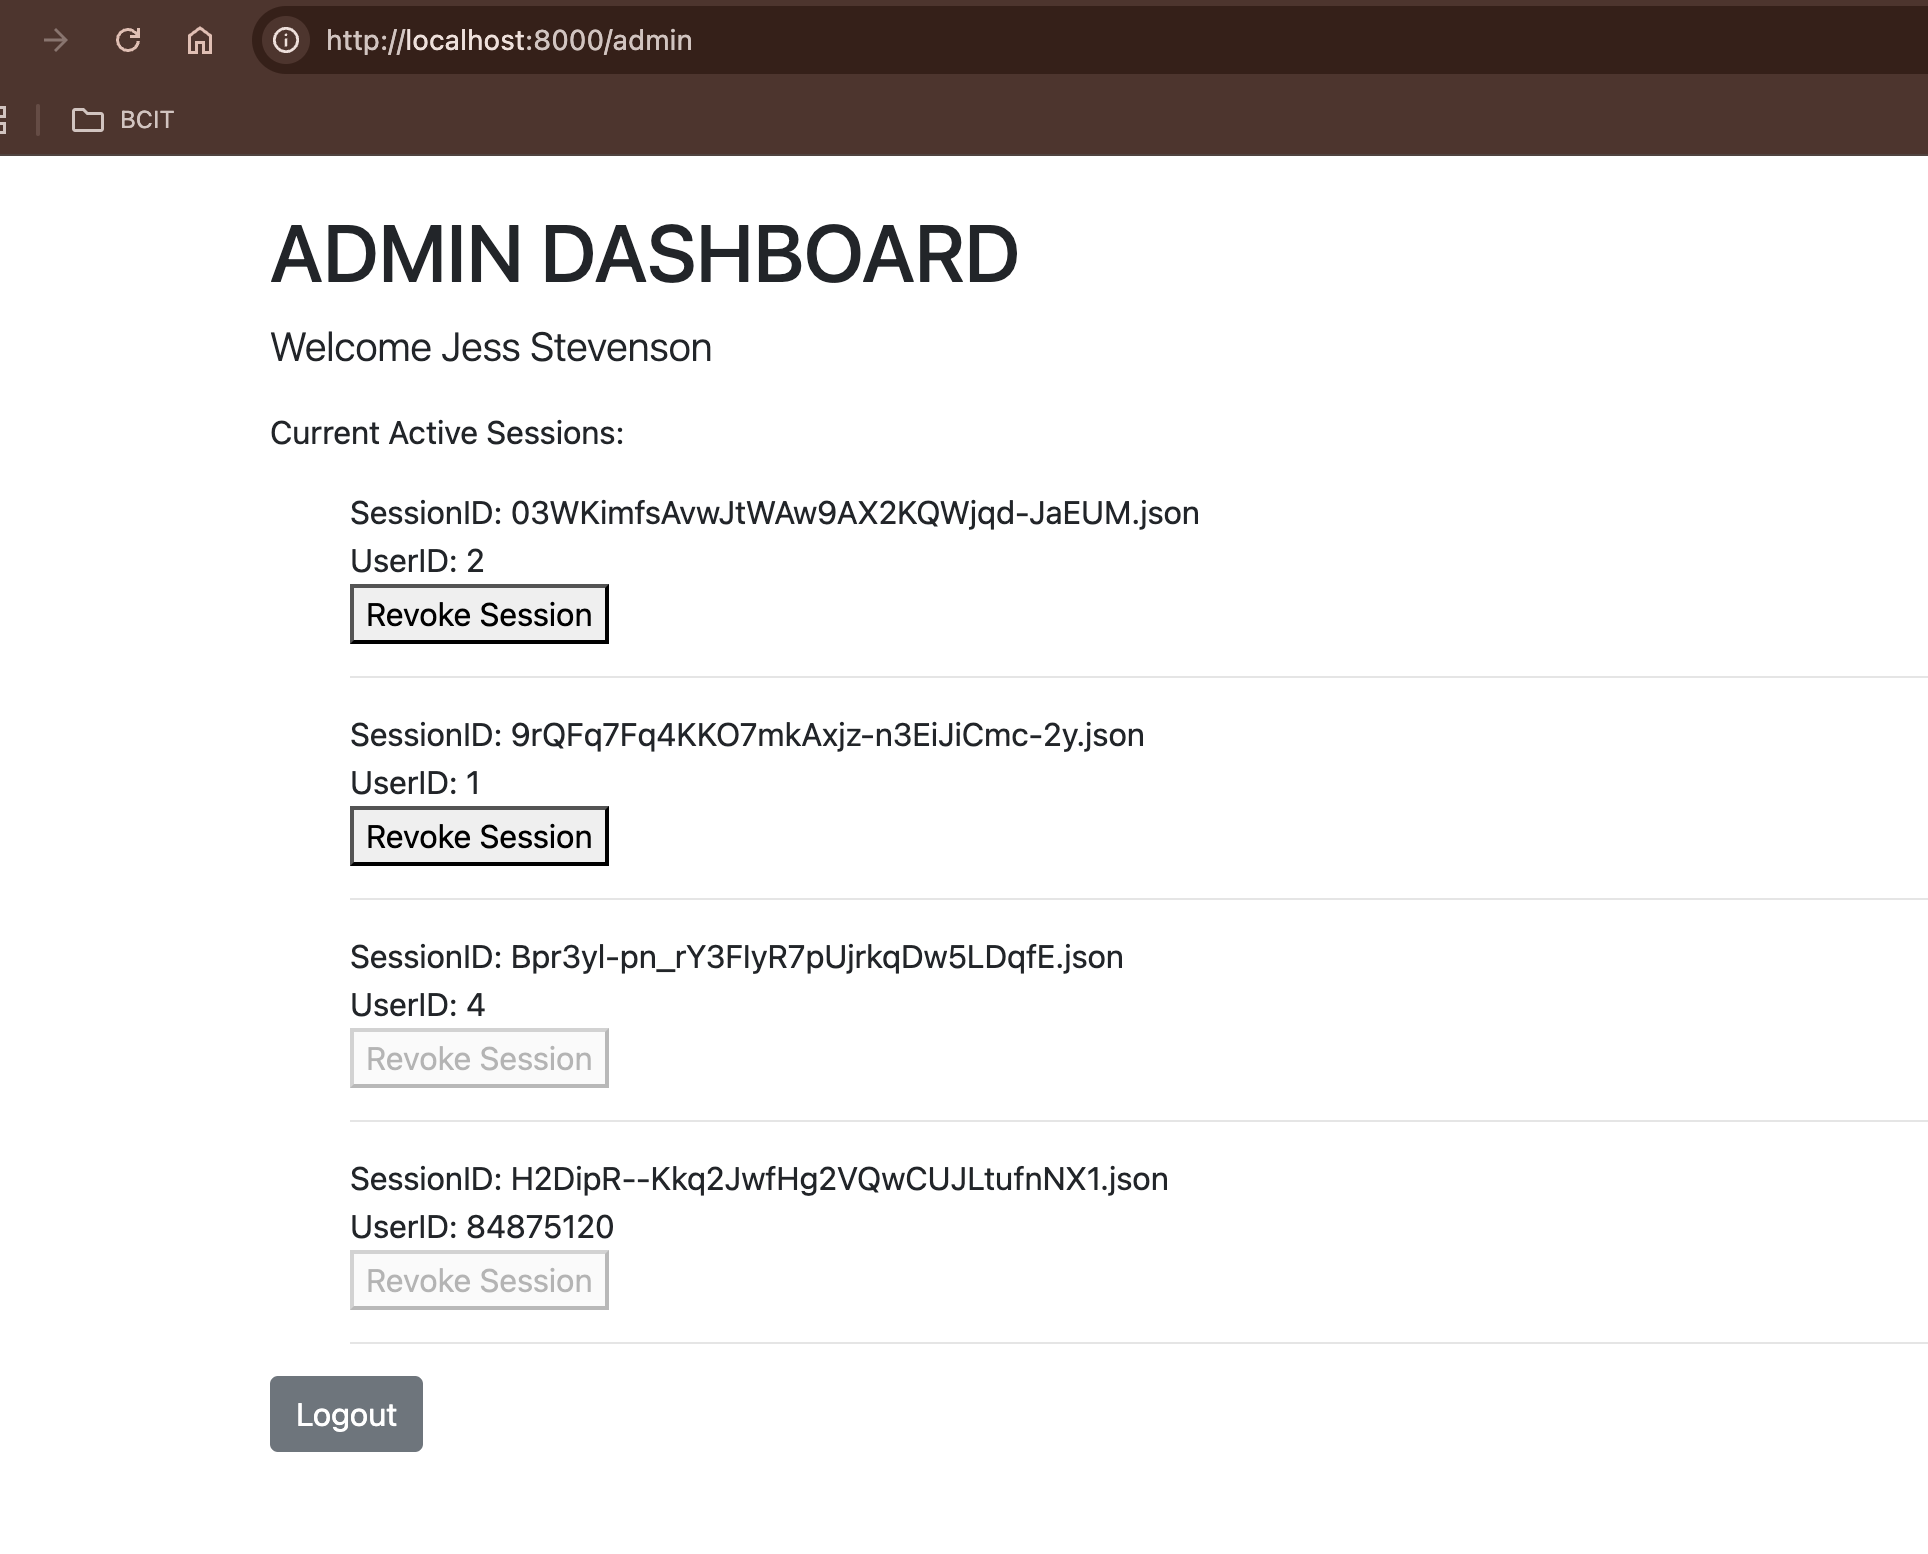
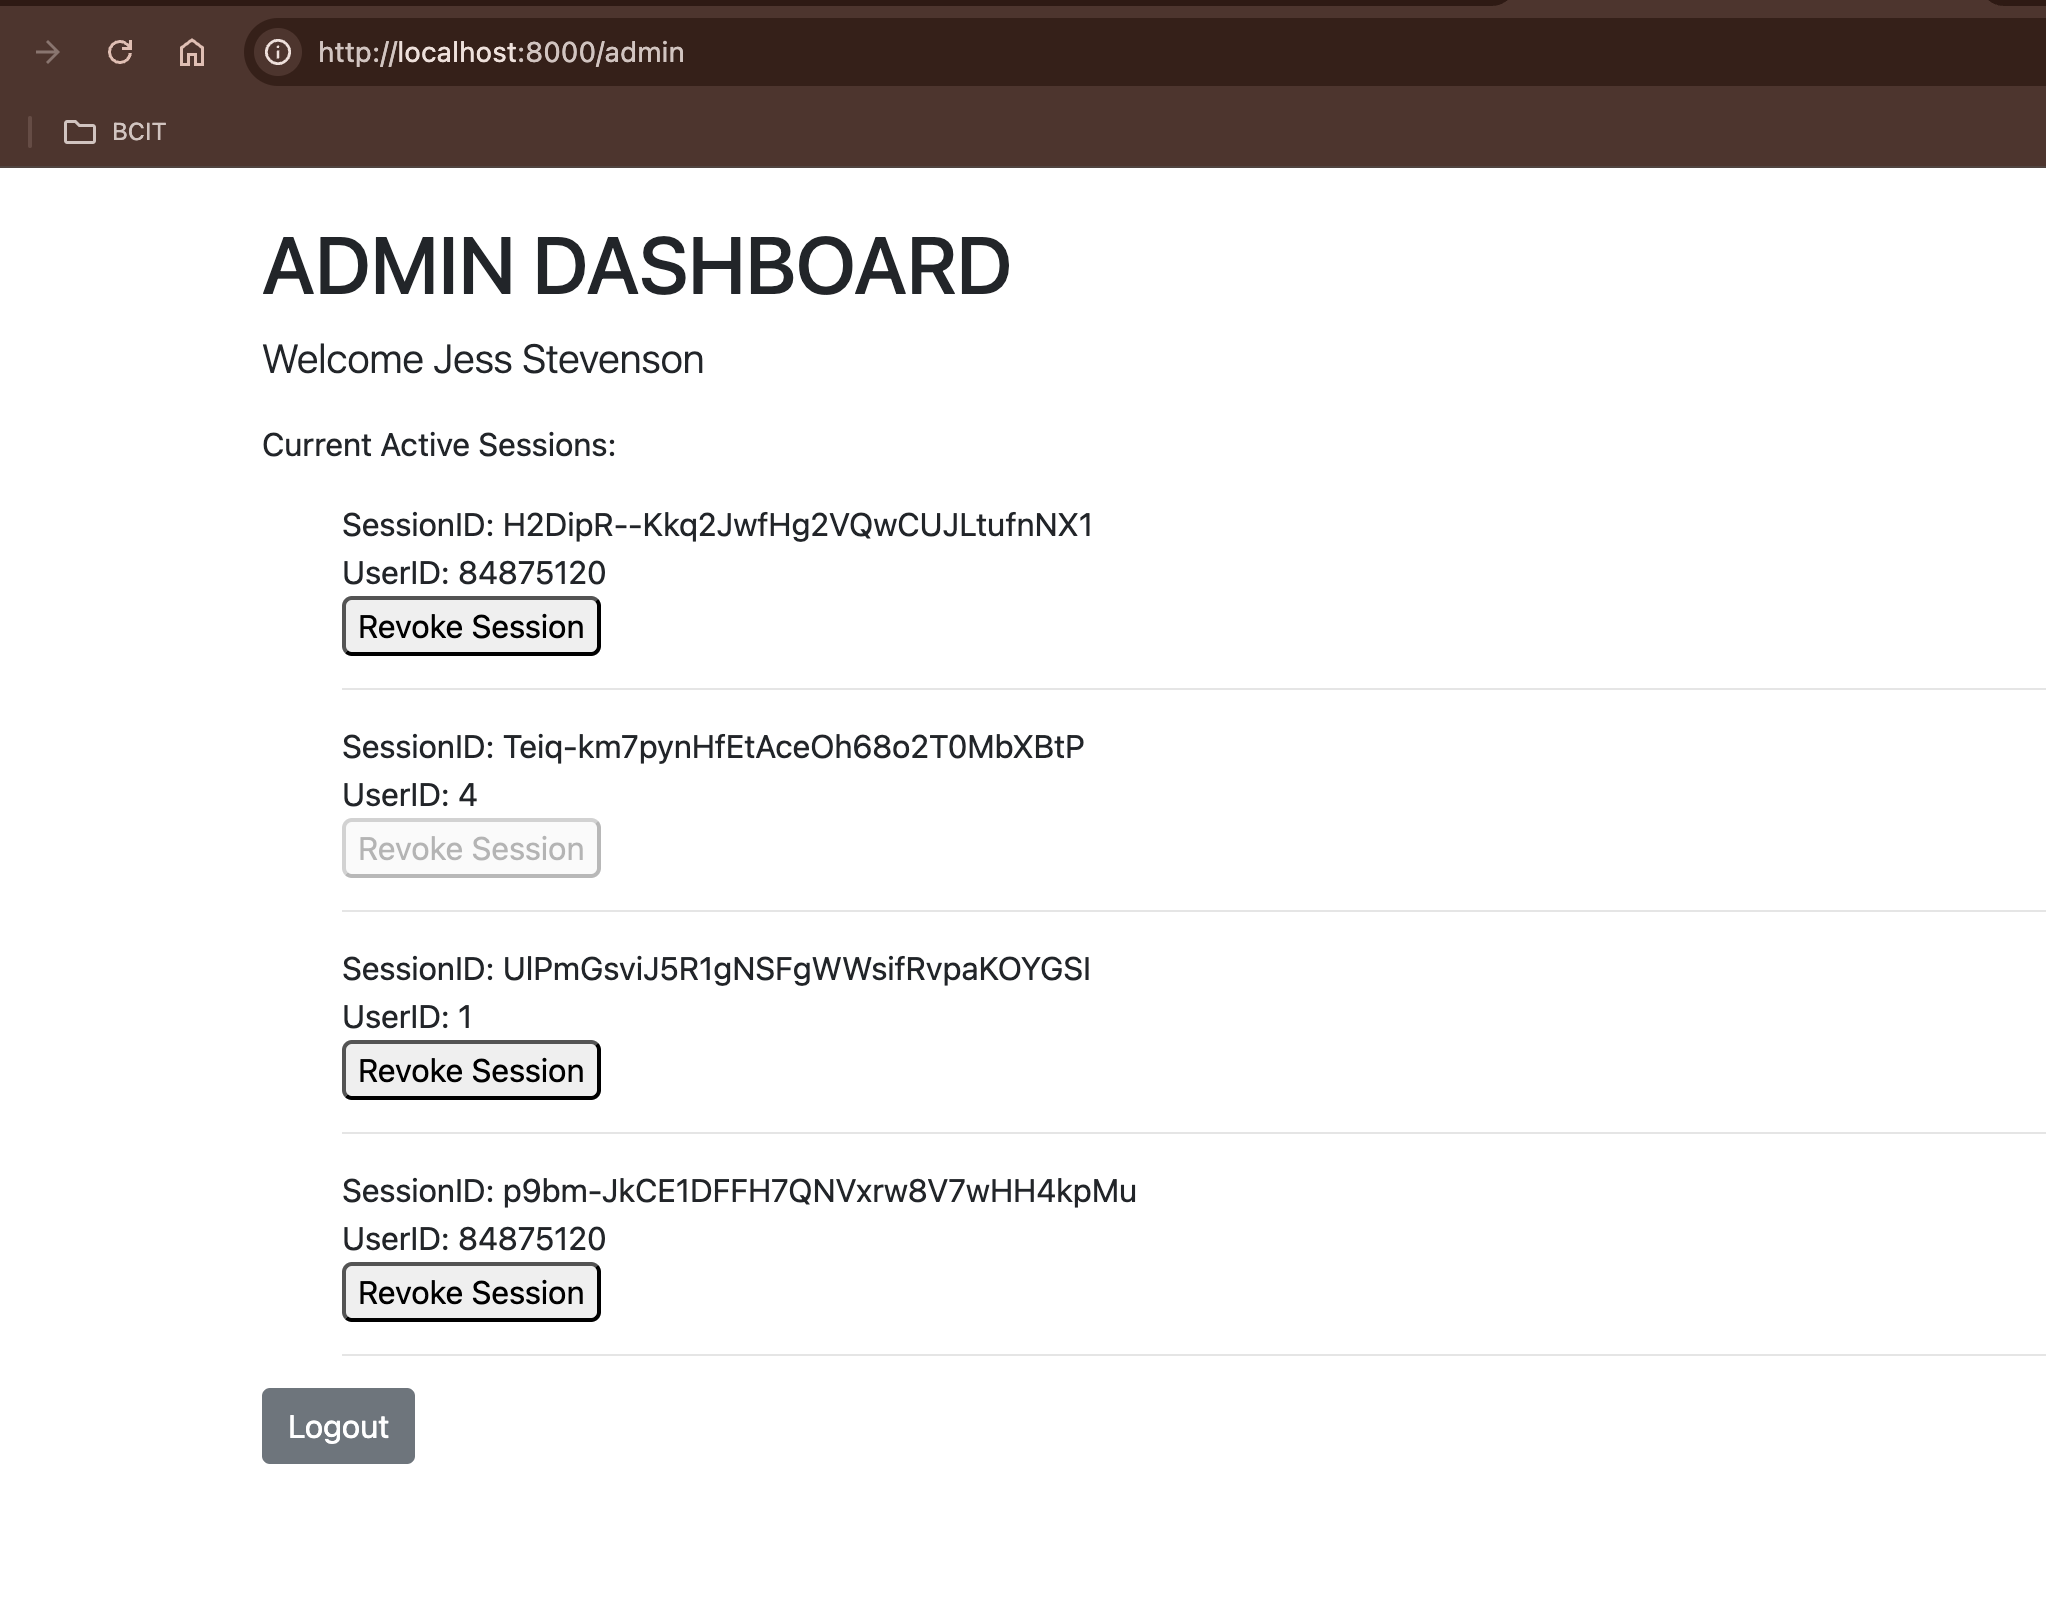
added error msg

diff --git a/middleware/passportStrategies/githubStrategy.ts b/middleware/passportStrategies/githubStrategy.ts
@@ -6,37 +6,36 @@ import { PassportStrategy } from '../../interfaces/index'
 import { User, database } from '../../models/userModel'
 
 if (!process.env.GITHUB_CLIENT_ID || !process.env.GITHUB_CLIENT_SECRET) {
-  throw new Error("Missing GitHub client ID or secret");
+   throw new Error("Missing GitHub client ID or secret");
 }
 
 const githubStrategy: GitHubStrategy = new GitHubStrategy({
-  clientID: process.env.GITHUB_CLIENT_ID,
-  clientSecret: process.env.GITHUB_CLIENT_SECRET,
-  callbackURL: "http://localhost:8000/auth/github/callback",
-  passReqToCallback: true,
-  scope: ['user:email']
+   clientID: process.env.GITHUB_CLIENT_ID,
+   clientSecret: process.env.GITHUB_CLIENT_SECRET,
+   callbackURL: "http://localhost:8000/auth/github/callback",
+   passReqToCallback: true,
+   scope: ['user:email']
 },
 async(req: Express.Request, accessToken: string, refreshToken: string, profile: Profile, done: Function): Promise<void> => {
-  console.log(`accessToken: `, accessToken);
-  console.log(`profile: `, profile);
+   // console.log(`accessToken: `, accessToken);
+   // console.log(`profile: `, profile);
+   const email = profile.emails && profile.emails[0]?.value ? profile.emails[0].value : null;
+      
+   if (!email) {
+      console.log("GitHub email not available.");
+      return done(new Error("GitHub email not available"), false);
+   }  
+   let githubUser:User = {
+      id: parseInt(profile.id),
+      name: profile.displayName,
+      email: email,
+      role: 'user'
+   };
+   console.log(`githubUser: ${githubUser}`)
 
-  const email = profile.emails && profile.emails[0]?.value ? profile.emails[0].value : null;
-    
-  if (!email) {
-    console.log("GitHub email not available.");
-    return done(new Error("GitHub email not available"), false);
-  }  
-  let githubUser:User = {
-    id: parseInt(profile.id),
-    name: profile.displayName,
-    email: email,
-    role: 'user'
-  };
-  console.log(`githubUser: ${githubUser}`)
+   database.push(githubUser);
 
-  database.push(githubUser);
-
-  return done(null, githubUser);
+   return done(null, githubUser);
 });
 
 const passportGitHubStrategy: PassportStrategy = {

diff --git a/routes/authRoute.ts b/routes/authRoute.ts
@@ -6,29 +6,30 @@ import { IVerifyOptions } from "passport-local";
 import { getUserByEmailAndPassword } from '../controllers/userController';
 import flash from 'connect-flash';
 
+
 const router = express.Router()
-router.use(flash())
+router.use(flash());
 
 router.get("/login", forwardAuthenticated, (req,res)=>{
-   res.render("login", { messages: { error: req.flash("error") } })
+   let errorMsg= req.flash('error');
+   res.render("login",{ messages: errorMsg } )
 })
 router.post("/login", (req, res, next) => {
-   passport.authenticate("local", (err:Error, user:User, info:IVerifyOptions) => {
-        if (err) { return next(err); }
-        // let existingUser = getUserByEmailAndPassword(email,password)
-        if (!user) { 
-         req.flash("errors", info.message);
-
-        return res.redirect("/auth/login"); }
-        req.logIn(user, (err) => {
-           if (err) { return next(err); }
-           if(isAdmin(req)){
+   passport.authenticate("local", {failureFlash: true, failureRedirect: "/auth/login"},(err:Error, user:User, info:IVerifyOptions) => {
+      if (err) { return next(err); }
+         
+      if (!user) {          
+         req.flash('error', info.message);
+         return res.redirect("/auth/login"); }
+         req.logIn(user, (err) => {
+            if (err) { return next(err); }
+            if(isAdmin(req)){
             return res.redirect('/admin')
-           } else {
+            } else {
             return res.redirect("/dashboard");
-           }
-           
-       });
+            }
+            
+         });
    })(req, res, next);
 });
 

diff --git a/dist/routes/authRoute.js b/dist/routes/authRoute.js
@@ -10,16 +10,16 @@ const connect_flash_1 = __importDefault(require("connect-flash"));
 const router = express_1.default.Router();
 router.use((0, connect_flash_1.default)());
 router.get("/login", checkAuth_1.forwardAuthenticated, (req, res) => {
-    res.render("login", { messages: { error: req.flash("error") } });
+    let errorMsg = req.flash('error');
+    res.render("login", { messages: errorMsg });
 });
 router.post("/login", (req, res, next) => {
-    passport_1.default.authenticate("local", (err, user, info) => {
+    passport_1.default.authenticate("local", { failureFlash: true, failureRedirect: "/auth/login" }, (err, user, info) => {
         if (err) {
             return next(err);
         }
-        // let existingUser = getUserByEmailAndPassword(email,password)
         if (!user) {
-            req.flash("errors", info.message);
+            req.flash('error', info.message);
             return res.redirect("/auth/login");
         }
         req.logIn(user, (err) => {

diff --git a/middleware/passportStrategies/localStrategy.ts b/middleware/passportStrategies/localStrategy.ts
@@ -1,18 +1,20 @@
 import passport from 'passport'
 import { Strategy as LocalStrategy } from 'passport-local'
-import { getUserByEmailAndPassword, getUserById,isUserValid } from "../../controllers/userController"
+import { getUserByEmail, getUserById,isUserValid } from "../../controllers/userController"
 import { PassportStrategy } from '../../interfaces/index'
 import { User } from '../../models/userModel'
 
 const localStrategy = new LocalStrategy({
    usernameField: "email",
-   passwordField:"password"
+   passwordField:"password",
+   
 },
 (email,password,done)=>{
-   const user = getUserByEmailAndPassword(email,password)
-   if(!user){
+   const user = getUserByEmail(email)
+   if(!user){      
       return done(null, false, { message: `Couldn't find user with email: ${email}` });
-   } else if (!isUserValid(user,password)){
+   } 
+   if (!isUserValid(user,password)){
       return done(null, false, { message: "Password is incorrect." });
    }
    return done(null,user)

diff --git a/dist/routes/indexRoute.js b/dist/routes/indexRoute.js
@@ -33,6 +33,7 @@ router.get("/admin", (req, res) => __awaiter(void 0, void 0, void 0, function* (
         const sessions = [];
         let isPriviledgedAdmin = false;
         for (const file of sessionFiles) {
+            // console.log(`file.split('.')[0]: `,file.split('.')[0])
             const filePath = path_1.default.join(sessionsDir, file);
             const sessionData = yield fs_1.default.promises.readFile(filePath, "utf-8");
             const sessionObj = JSON.parse(sessionData);
@@ -47,7 +48,7 @@ router.get("/admin", (req, res) => __awaiter(void 0, void 0, void 0, function* (
             }
             if (sessionObj.passport && sessionObj.passport.user) {
                 sessions.push({
-                    sessionId: file,
+                    sessionId: file.split(".")[0],
                     userId: sessionObj.passport.user,
                     isPriviledgedAdmin
                 });

diff --git a/dist/models/userModel.js b/dist/models/userModel.js
@@ -39,11 +39,12 @@ const userModel = {
             if (user) {
                 return user;
             }
-            throw new Error(`Couldn't find user with email: ${email}`);
-            //   return
+            //  throw new Error(`Couldn't find user with email: ${email}`);
+            return null;
         }
         catch (error) {
             console.log(`userModel can't find user: `, error);
+            // throw error  
         }
     },
     findById: (id) => {
@@ -52,11 +53,12 @@ const userModel = {
             if (user) {
                 return user;
             }
+            //  throw new Error(`Couldn't find user with id:`);
             return null;
         }
         catch (error) {
             console.log(error);
-            // throw new Error(`Couldn't find user with id:`);
+            //  throw error
         }
     },
 };

diff --git a/dist/controllers/userController.js b/dist/controllers/userController.js
@@ -1,6 +1,6 @@
 "use strict";
 Object.defineProperty(exports, "__esModule", { value: true });
-exports.getUserById = exports.getUserByEmailAndPassword = void 0;
+exports.getUserByEmail = exports.getUserById = exports.getUserByEmailAndPassword = void 0;
 exports.isUserValid = isUserValid;
 const userModel_1 = require("../models/userModel");
 const getUserByEmailAndPassword = (email, password) => {
@@ -13,6 +13,14 @@ const getUserByEmailAndPassword = (email, password) => {
     return null;
 };
 exports.getUserByEmailAndPassword = getUserByEmailAndPassword;
+const getUserByEmail = (email) => {
+    let user = userModel_1.userModel.findOne(email);
+    if (user) {
+        return user;
+    }
+    return null;
+};
+exports.getUserByEmail = getUserByEmail;
 const getUserById = (id) => {
     let user = userModel_1.userModel.findById(id);
     if (user) {

diff --git a/models/userModel.ts b/models/userModel.ts
@@ -44,10 +44,12 @@ const database:User[] = [
      if (user) {
        return user;
      }
-     throw new Error(`Couldn't find user with email: ${email}`);
-   //   return
+    //  throw new Error(`Couldn't find user with email: ${email}`);
+     
+     return null;
     } catch(error){
-      console.log(`userModel can't find user: `,error)     
+      console.log(`userModel can't find user: `,error)   
+      // throw error  
     }     
    },
    
@@ -57,11 +59,13 @@ const database:User[] = [
          if (user) {
            return user;
          }
+        //  throw new Error(`Couldn't find user with id:`);
          return null;
          
       } catch(error){
          console.log(error)
-         // throw new Error(`Couldn't find user with id:`);
+        //  throw error
+         
       }
      
    },

diff --git a/dist/middleware/passportStrategies/localStrategy.js b/dist/middleware/passportStrategies/localStrategy.js
@@ -8,13 +8,13 @@ const passport_local_1 = require("passport-local");
 const userController_1 = require("../../controllers/userController");
 const localStrategy = new passport_local_1.Strategy({
     usernameField: "email",
-    passwordField: "password"
+    passwordField: "password",
 }, (email, password, done) => {
-    const user = (0, userController_1.getUserByEmailAndPassword)(email, password);
+    const user = (0, userController_1.getUserByEmail)(email);
     if (!user) {
         return done(null, false, { message: `Couldn't find user with email: ${email}` });
     }
-    else if (!(0, userController_1.isUserValid)(user, password)) {
+    if (!(0, userController_1.isUserValid)(user, password)) {
         return done(null, false, { message: "Password is incorrect." });
     }
     return done(null, user);

diff --git a/routes/indexRoute.ts b/routes/indexRoute.ts
@@ -25,7 +25,7 @@ router.get("/admin", async(req,res)=>{
        
       let isPriviledgedAdmin = false
       for (const file of sessionFiles) {
-
+         // console.log(`file.split('.')[0]: `,file.split('.')[0])
          const filePath = path.join(sessionsDir, file);
         
          const sessionData = await fs.promises.readFile(filePath, "utf-8" );         
@@ -42,7 +42,7 @@ router.get("/admin", async(req,res)=>{
          }          
          if (sessionObj.passport && sessionObj.passport.user) {         
             sessions.push({
-            sessionId: file,
+            sessionId: file.split(".")[0],
             userId: sessionObj.passport.user,
             isPriviledgedAdmin
             });

diff --git a/dist/middleware/passportStrategies/githubStrategy.js b/dist/middleware/passportStrategies/githubStrategy.js
@@ -24,8 +24,8 @@ const githubStrategy = new passport_github2_1.Strategy({
     scope: ['user:email']
 }, (req, accessToken, refreshToken, profile, done) => __awaiter(void 0, void 0, void 0, function* () {
     var _a;
-    console.log(`accessToken: `, accessToken);
-    console.log(`profile: `, profile);
+    // console.log(`accessToken: `, accessToken);
+    // console.log(`profile: `, profile);
     const email = profile.emails && ((_a = profile.emails[0]) === null || _a === void 0 ? void 0 : _a.value) ? profile.emails[0].value : null;
     if (!email) {
         console.log("GitHub email not available.");

diff --git a/controllers/userController.ts b/controllers/userController.ts
@@ -10,6 +10,14 @@ const getUserByEmailAndPassword = (email: string, password: string) => {
   }
   return null;
 };
+const getUserByEmail = (email:string)=>{
+  let user = userModel.findOne(email)
+  if(user){
+    return user
+  }
+  return null
+  
+}
 const getUserById = (id:string|number) => {
   let user = userModel.findById(id);
   if (user) {
@@ -26,5 +34,6 @@ function isUserValid(user: User, password: string) {
 export {
   getUserByEmailAndPassword,
   getUserById,
+  getUserByEmail,
   isUserValid
 };
